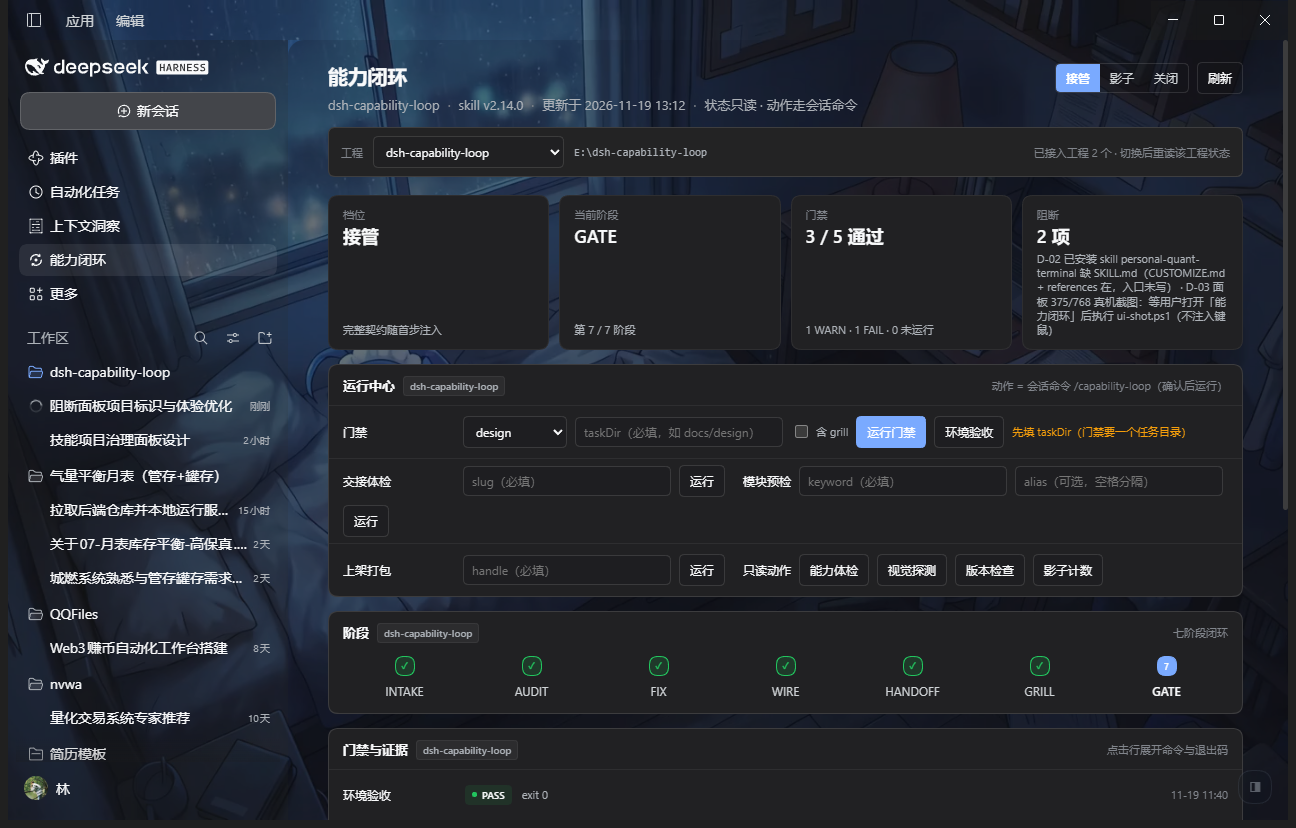
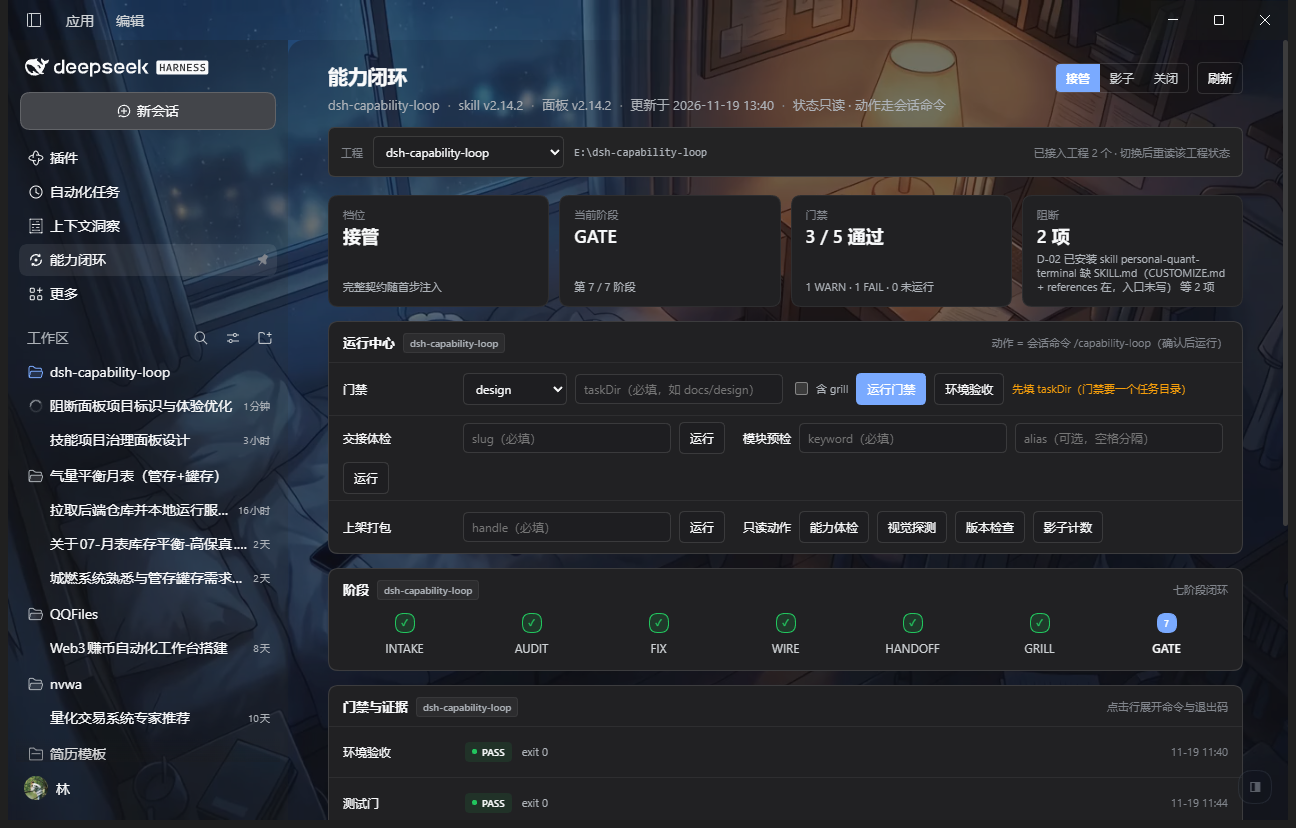
v2.14.3: 归档面板真机截图（窗口宽 1296/768/最小 536 像素）；确认 375 像素桌面不可达；无代码变更

diff --git a/CHANGELOG.md b/CHANGELOG.md
@@ -2,6 +2,22 @@
 
 > **v2.4.0–v2.7.0 归属说明**：这几版记录的是**交接自动化**（`feature-handoff` 的 `send-to-trae-prompt.ps1` / `trae-cdp.mjs`）联调过程；**脚本本体在 `feature-handoff/scripts/`，不在本 skill**，本 skill 只同步 `references/60-handoff.md` 接线文档与版本号。合入时保留原版本编号以保持追溯（按本 skill semver，这类文档同步本应记 PATCH）。以下各条的实测证据均来自该联调会话；v2.7.0 对齐只做文档/版本整理，**未复跑窗口/GUI 操作**，未实测标注保持不变。
 
+## v2.14.3 — 2026-11-19（真机截图归档：窗口宽 1296 / 768 / 最小 536 像素）
+
+**内容**（无代码变更）
+- 面板 v2.14.2 真机截图三张，归档到 `docs/design/`：
+  - `panel-1296.png`：窗口宽度 1296 像素（常规桌面）；
+  - `panel-768.png`：窗口宽度 768 像素（平板宽度，紧凑排版：指标两列、标签收窄）；
+  - `panel-536.png`：窗口最小宽度 536 像素（桌面窗口下限；页面仍可用，动作区按行换行）。
+- **375 像素（手机宽度）桌面做不到**：桌面程序窗口下限是 536 像素；需要 375 像素只能用浏览器打开 Web UI 做设备模拟。
+- 截图方式：`scripts/ui-shot.ps1` 只 `MoveWindow` + `PrintWindow`，**不注入键盘/鼠标**，截完恢复原尺寸与位置；截图前确认 Harness 在前台（点侧边栏打开面板那一下仍是手动）。
+
+**验证**
+- 面板标题确认加载到 v2.14.2（标题下「面板 v2.14.2」）。
+- 夹具 57/57；本提交不含代码改动。
+
+**回滚**：删除三张截图即可。
+
 ## v2.14.2 — 2026-11-19（面板自报版本 + 澄清桌面版的“刷新”）
 
 **起因**：用户反馈在 Harness 桌面版按 Ctrl+R 没反应，且不知道面板加载的是不是最新代码。

diff --git a/plugins/capability-loop/README.md b/plugins/capability-loop/README.md
@@ -155,10 +155,13 @@ plugin_manager  action=install_bundle  target=<本目录绝对路径>
 - 会话里收到 `shadow` 一行提示；影子日志记账；`sync-shadow` 计数。
 - **`on` 档真机实测**：`set-mode -Mode on` → 下一步即收到完整契约（阶段/硬约束/门禁/阻断/下一步），脚本 `[PASS]`、exit 0。
 
+- **真机排版（2026-11-19，面板 v2.14.2）**：窗口宽度 1296、768、536 像素三档截图见 `docs/design/panel-{1296,768,536}.png`（536 是桌面窗口最小宽度；375 像素桌面做不到，需要浏览器 Web UI）。
+- **`on` 档真机实测**：`set-mode -Mode on` → 下一步即收到完整契约（阶段/硬约束/门禁/阻断/下一步），脚本 `[PASS]`、exit 0。
+
 **未验证**
-- 面板运行中心的**真机点击**：Host 命令需重启应用注册（当前进程仍是旧模块）；当前环境无可操作的桌面窗口。补测：重启应用 → 打开「能力闭环」→ 点「运行门禁（design）」→ 应出现确认框与 `[门禁] PASS`。
-- Web UI 对 `source.kind='capability-loop'` 的渲染样式（现在当普通用户消息显示）。
-- token 计费差异；面板在 375/768 宽度下的排版。
+- 面板运行中心的**真机点击**：Host 命令只在应用启动时注册，改 `index.js` 后需重启应用；点「运行门禁」的端到端结果待下一次重启后确认。
+- Web UI 对 `source.kind='capability-loop'` 的渲染样式（现在当普通用户消息显示）；375 像素排版需 Web UI。
+- token 计费差异。
 
 ## 依据（已核源码，DSH 0.2.2-rc.3）
 

diff --git a/SKILL.md b/SKILL.md
@@ -1,6 +1,6 @@
 ---
 name: dsh-capability-loop
-version: 2.14.2
+version: 2.14.3
 description: DSH 能力升级与治理闭环。【重点】体检/修复 DSH 自身：九组审计→检索/桌面壳/Token 死重量修复→门禁验收→经验写回；适用升级/优化/体检 DSH、治理插件与技能、修会话检索或进程退出、降 Token、迭代本 skill。【配套】项目接管（三档+状态源）、接入六问、需求/设计/测试串接、Trae 交接体检（含网关前缀）、grill 自对抗、迁移与上架。单点需求/设计/测试走各自规范。
 ---
 
